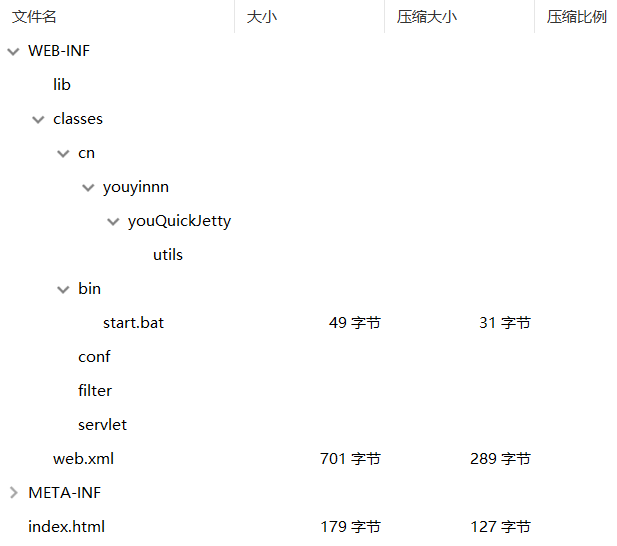
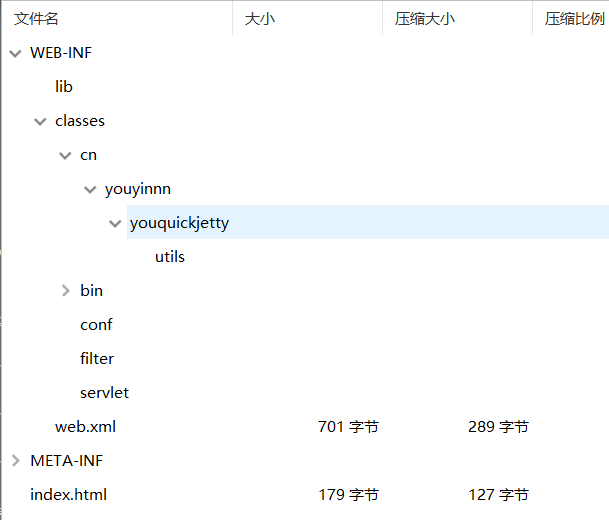
根据阿里的编码规约插件修改了许多命名细节

diff --git a/src/main/java/cn/youyinnn/youquickjetty/utils/YouProUtils.java b/src/main/java/cn/youyinnn/youquickjetty/utils/YouProUtils.java
@@ -1,4 +1,4 @@
-package cn.youyinnn.youQuickJetty.utils;
+package cn.youyinnn.youquickjetty.utils;
 
 import java.io.IOException;
 import java.util.Properties;
@@ -8,6 +8,7 @@ import java.util.Properties;
  * @author: youyinnn
  * @date: 2017/9/26
  */
+@SuppressWarnings("ALL")
 public class YouProUtils {
 
     private static Properties properties = new Properties();
@@ -31,7 +32,7 @@ public class YouProUtils {
     }
 
     public static void getSystemProperties(){
-        Properties props=System.getProperties(); //系统属性
+        Properties props= System.getProperties();
         System.out.println("===============================================================================================");
         System.out.println("Java的运行环境版本："+props.getProperty("java.version"));
         System.out.println("Java的运行环境供应商："+props.getProperty("java.vendor"));
@@ -54,9 +55,9 @@ public class YouProUtils {
         System.out.println("操作系统的名称："+props.getProperty("os.name"));
         System.out.println("操作系统的构架："+props.getProperty("os.arch"));
         System.out.println("操作系统的版本："+props.getProperty("os.version"));
-        System.out.println("文件分隔符："+props.getProperty("file.separator"));   //在 unix 系统中是＂／＂
-        System.out.println("路径分隔符："+props.getProperty("path.separator"));   //在 unix 系统中是＂:＂
-        System.out.println("行分隔符："+props.getProperty("line.separator"));   //在 unix 系统中是＂/n＂
+        System.out.println("文件分隔符："+props.getProperty("file.separator"));
+        System.out.println("路径分隔符："+props.getProperty("path.separator"));
+        System.out.println("行分隔符："+props.getProperty("line.separator"));
         System.out.println("用户的账户名称："+props.getProperty("user.name"));
         System.out.println("用户的主目录："+props.getProperty("user.home"));
         System.out.println("用户的当前工作目录："+props.getProperty("user.dir"));

diff --git a/src/main/java/cn/youyinnn/youquickjetty/utils/BaseHttpFilter.java b/src/main/java/cn/youyinnn/youquickjetty/utils/BaseHttpFilter.java
@@ -1,4 +1,4 @@
-package cn.youyinnn.youQuickJetty.utils;
+package cn.youyinnn.youquickjetty.utils;
 
 import javax.servlet.*;
 import javax.servlet.http.HttpServletRequest;
@@ -6,13 +6,17 @@ import javax.servlet.http.HttpServletResponse;
 import java.io.IOException;
 
 /**
- * Created by youyinnn on 2017/2/5.
+ *
+ * @author youyinnn
+ * @date 2017/2/5
  */
-public abstract class HttpFilter implements Filter {
-    
+public abstract class BaseHttpFilter implements Filter {
+
+    @Override
     public void destroy() {
     }
 
+    @Override
     public void doFilter(ServletRequest req, ServletResponse resp, FilterChain chain) throws ServletException, IOException {
 
         HttpServletRequest request = (HttpServletRequest) req;
@@ -21,10 +25,20 @@ public abstract class HttpFilter implements Filter {
         doFilter(request,response,chain);
     }
 
+    /**
+     * 等于原来的Filter实现的doFilter方法
+     *
+     * @param request
+     * @param response
+     * @param chain
+     * @throws ServletException
+     * @throws IOException
+     */
     public abstract void doFilter(HttpServletRequest request,HttpServletResponse response,FilterChain chain) throws ServletException, IOException;
 
     private FilterConfig filterConfig;
 
+    @Override
     public void init(FilterConfig config) throws ServletException {
         this.filterConfig = config;
         init();

diff --git a/src/main/java/cn/youyinnn/youquickjetty/utils/ArgsAnalysis.java b/src/main/java/cn/youyinnn/youquickjetty/utils/ArgsAnalysis.java
@@ -1,4 +1,4 @@
-package cn.youyinnn.youQuickJetty.utils;
+package cn.youyinnn.youquickjetty.utils;
 
 import java.util.ArrayList;
 import java.util.HashMap;
@@ -13,7 +13,7 @@ public class ArgsAnalysis {
     private HashMap<String,String> commandValuesMap = new HashMap<>();
     private ArrayList<String> supportCmd = new ArrayList<>();
 
-    public ArgsAnalysis(String[] args,ArrayList<String> supportCmd) {
+    public ArgsAnalysis(String[] args, ArrayList<String> supportCmd) {
 
         this.supportCmd = supportCmd;
 

diff --git a/src/main/java/cn/youyinnn/youquickjetty/YouJetty.java b/src/main/java/cn/youyinnn/youquickjetty/YouJetty.java
@@ -1,6 +1,6 @@
-package cn.youyinnn.youQuickJetty;
+package cn.youyinnn.youquickjetty;
 
-import cn.youyinnn.youQuickJetty.utils.ArgsAnalysis;
+import cn.youyinnn.youquickjetty.utils.ArgsAnalysis;
 import org.eclipse.jetty.server.Server;
 import org.eclipse.jetty.webapp.Configuration;
 import org.eclipse.jetty.webapp.WebAppContext;

diff --git a/src/main/java/Start2.java b/src/main/java/Start2.java
@@ -1,5 +1,5 @@
-import cn.youyinnn.youQuickJetty.YouJetty;
-import cn.youyinnn.youQuickJetty.utils.YouProUtils;
+import cn.youyinnn.youquickjetty.YouJetty;
+import cn.youyinnn.youquickjetty.utils.YouProUtils;
 
 /**
  * @description:

diff --git a/README.md b/README.md
@@ -73,13 +73,13 @@
 
 架构总览：
 
-- `package` cn.youyinnn.youQuickJetty
+- `package` cn.youyinnn.youquickjetty
   - `package` utils
     - `class` ArgsAnalysis
       ```
       这是一个对args参数进行简单的存储和分析的工具类
       ```
-    - `class` HttpFilter
+    - `class` BaseHttpFilter
       ```
       这是基本的Filter 里面把ServletRequest和ServletResponse转为HttpServletRequest和HttpServletResponse
       ```
